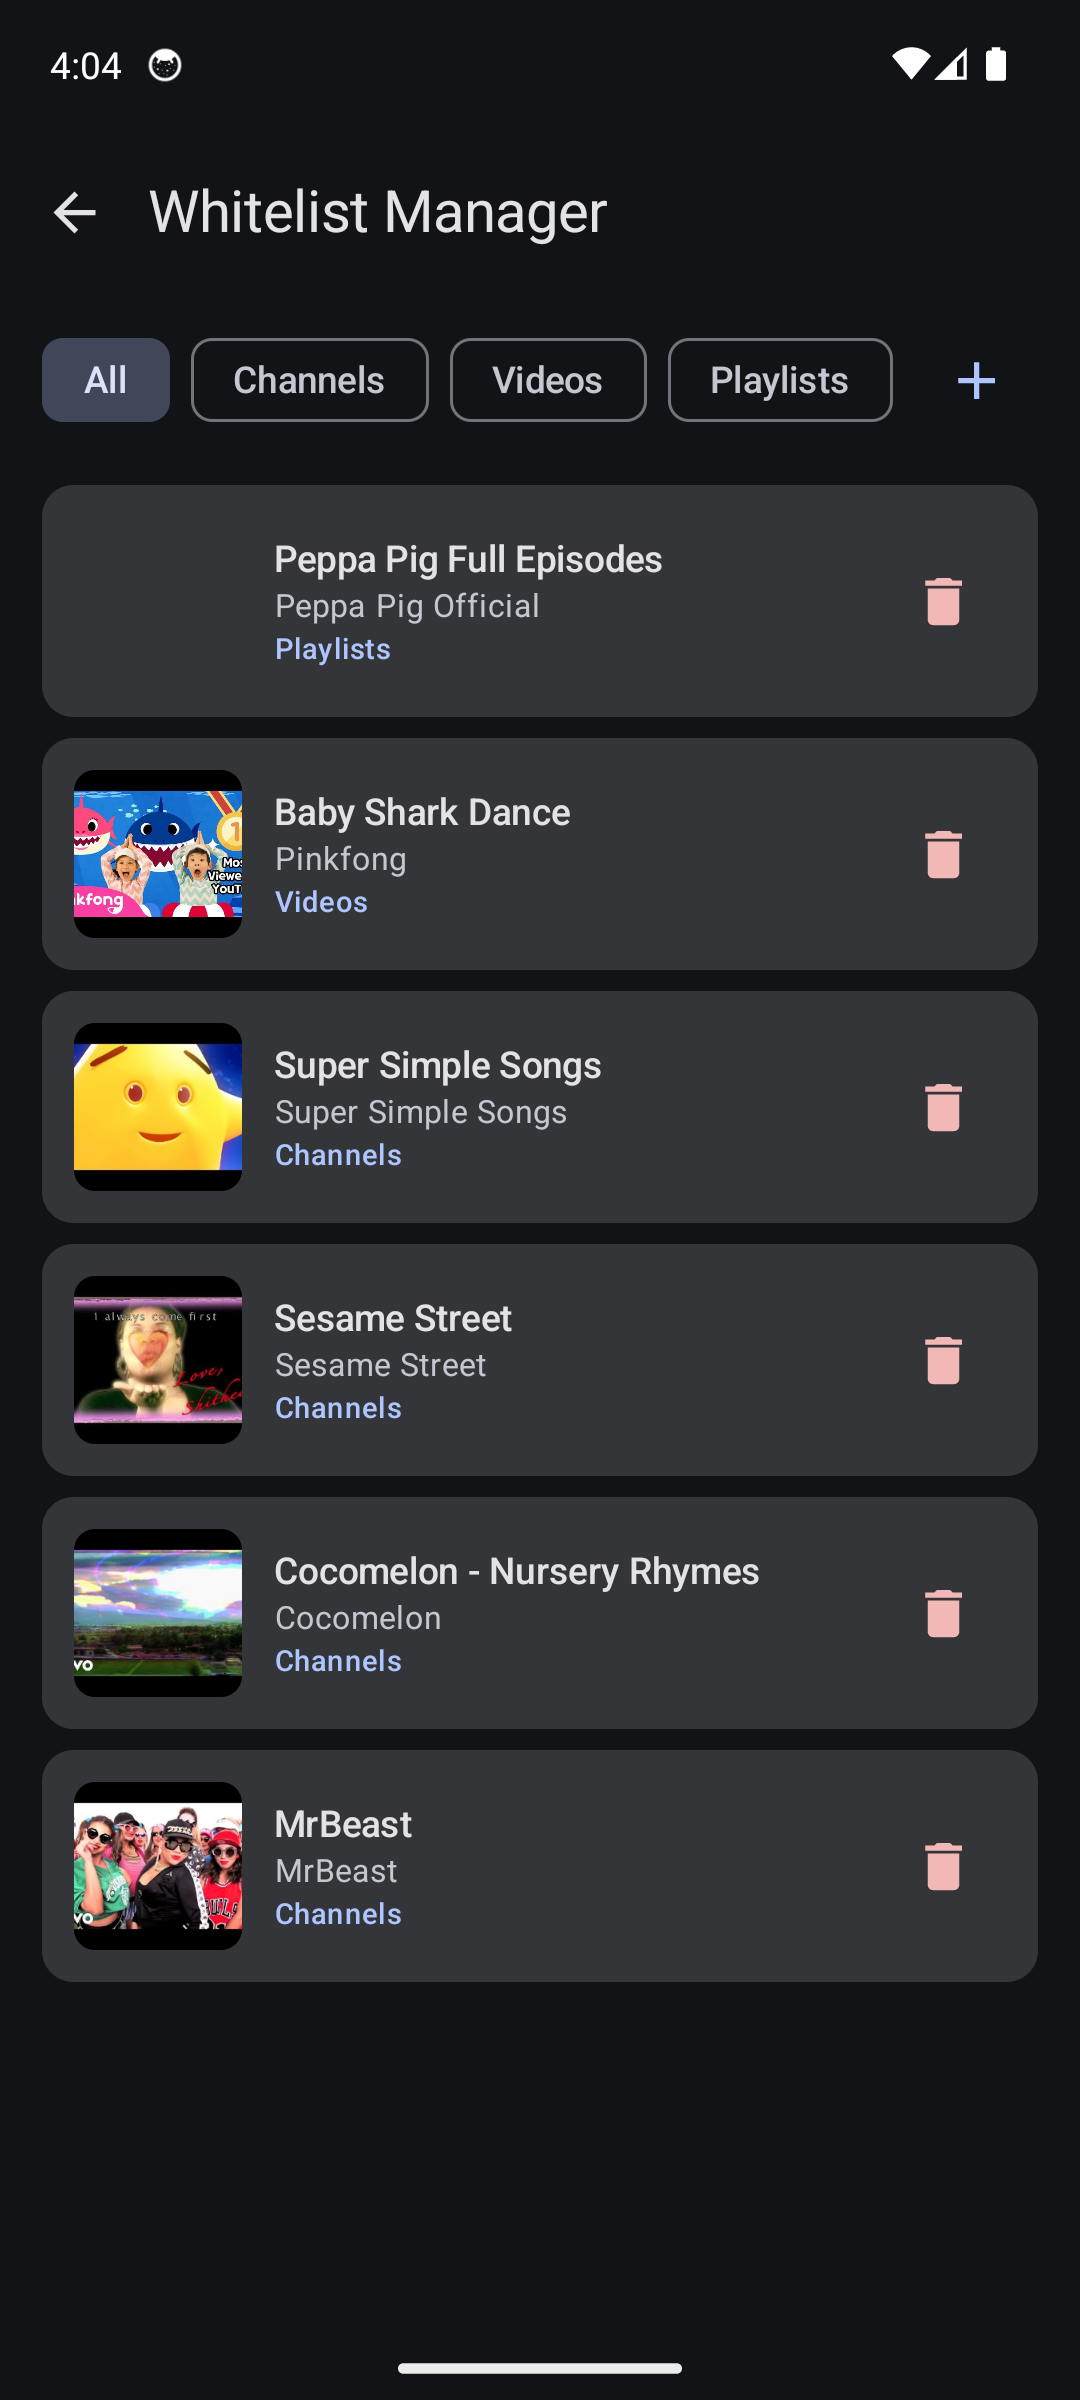
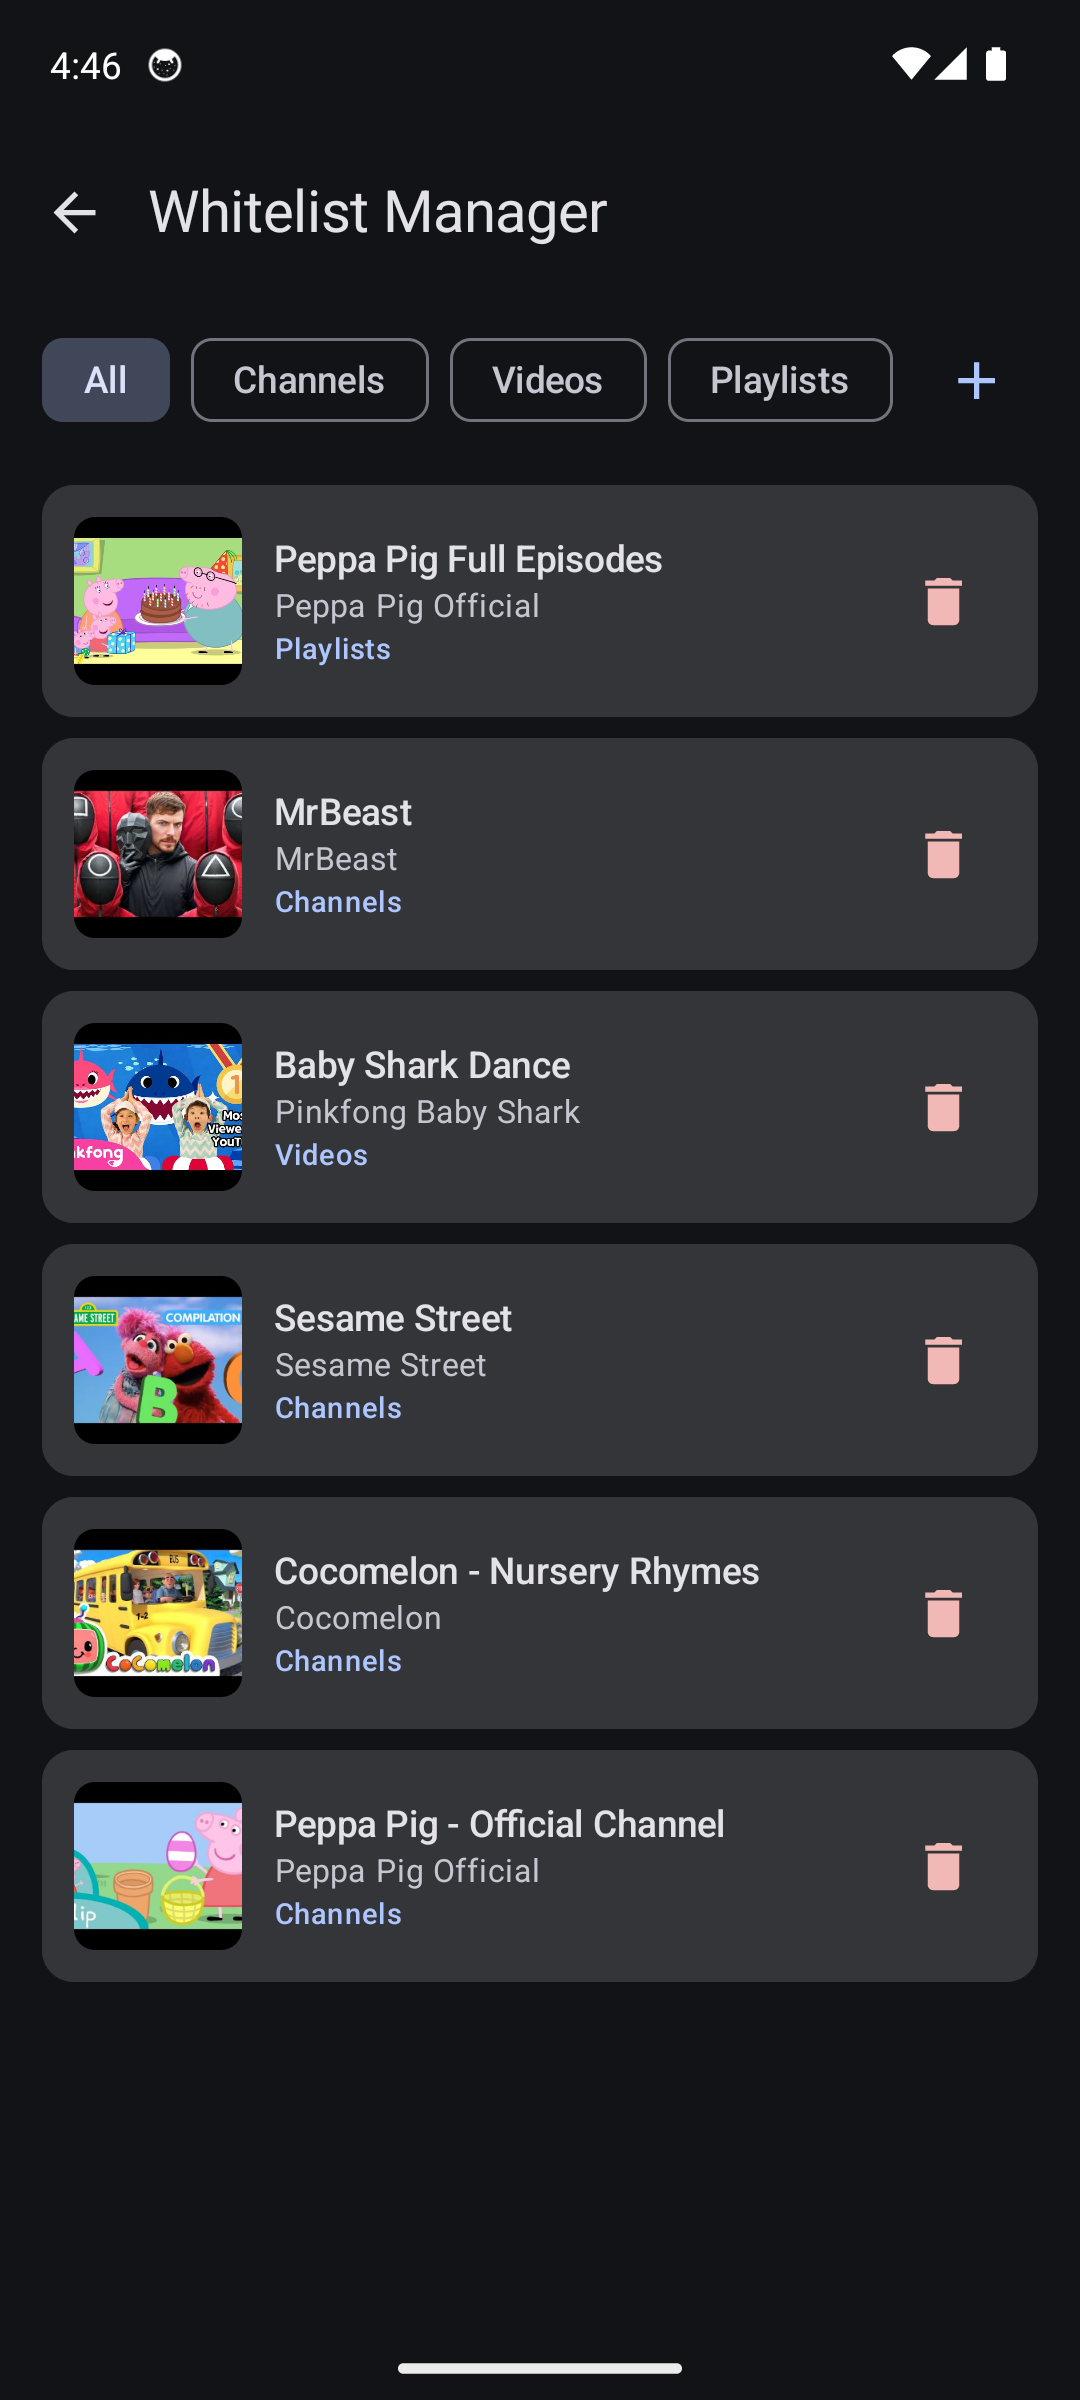
Session 17: Replace screenshots with real YouTube thumbnails
- 7 screenshots with authentic YouTube content (Peppa Pig, Cocomelon,
  Sesame Street, Baby Shark, MrBeast) instead of fake placeholder data
- Added Sleep Mode (06) and Export/Import (07) screenshots
- Release APK on emulator with real Google sign-in
- Archive Session 12 to CLAUDE_ARCHIVE_2.md
- Update session docs for Session 17/18

diff --git a/CLAUDE.md b/CLAUDE.md
@@ -67,65 +67,6 @@ Full PRD: `docs/PRD.md` (English translation from original Hungarian docx)
 
 ## Session Logs
 
-### Session 12 - 2026-02-10: Device Testing, WebView Security Fix, Cookie Persistence
-
-**Objectives**: Real device + emulator testing, fix embed-disabled video security issue, fix YouTube Premium cookie persistence in Browse YouTube.
-
-**Completed**:
-- **WebView Navigation Security Fix (VideoPlayerScreen + SleepModeScreen)**:
-  - Added `shouldOverrideUrlLoading` returning `true` to block ALL navigation in video player WebViews
-  - Prevents kids from escaping the app via "Watch on YouTube" links on embed-disabled videos
-  - Added `onEmbedError` callback to `VideoEndedBridge` JavaScript bridge — handles YouTube IFrame Player error codes 101/150 (embedding disabled by video owner)
-  - Auto-skips to next video when embed error detected (`viewModel.playNext()`)
-  - Same fixes applied to `SleepModeScreen`'s `SleepVideoEndedBridge`
-
-- **Browse YouTube Cookie Persistence Fix**:
-  - Added `CookieManager` setup to `WebViewBrowserScreen`'s `YouTubeWebView`
-  - `CookieManager.setAcceptCookie(true)` + `setAcceptThirdPartyCookies(this, true)` enables YouTube login session persistence
-  - `CookieManager.flush()` in `DisposableEffect.onDispose` persists cookies to disk before WebView destruction
-  - YouTube Premium now recognized in Browse YouTube — no ads, no sign-in prompts
-
-- **Attempted WebView OAuth (reverted)**:
-  - Created `OAuthWebViewActivity` to share cookie store between OAuth and Browse YouTube WebViews
-  - Goal: single sign-in experience (sign in once, Premium recognized everywhere)
-  - **Google blocked it** — Google's policy since 2016 prohibits OAuth in embedded WebViews (error: "access denied")
-  - Fully reverted to Chrome Custom Tabs + OAuthLoopbackServer implementation
-  - Deleted `OAuthWebViewActivity`, restored `androidx.browser` dependency
-
-- **Emulator Testing**:
-  - Installed release APK on Android 14 emulator, verified video playback with IFrame Player
-  - Navigation blocking confirmed — no "Watch on YouTube" escape links
-  - Video navigation (Next/Previous) working correctly
-  - Inserted test data directly via `adb shell run-as ... sqlite3` (emulator gesture navigation zone blocked FAB taps)
-
-- **Real Device Testing**:
-  - User confirmed fix works on real device ("szuper, most megy frankón")
-  - YouTube Premium recognized after CookieManager fix
-
-**Decisions Made**:
-- `shouldOverrideUrlLoading` returns `true` unconditionally in player WebViews — no legitimate navigation needed
-- Error codes 101/150 trigger auto-skip (not error message) — seamless UX for kids
-- Chrome Custom Tabs remains the only OAuth option — Google blocks embedded WebView OAuth
-- Users must sign in twice: once for app (Chrome Custom Tabs OAuth), once in Browse YouTube WebView — separate cookie stores, both sessions persist
-- CookieManager.flush() on dispose ensures YouTube login survives app restarts
-
-**Files Modified**:
-- `feature/kid/src/main/java/.../player/VideoPlayerScreen.kt` (navigation blocking + embed error handling)
-- `feature/sleep/src/main/java/.../ui/SleepModeScreen.kt` (same security fixes)
-- `feature/parent/src/main/java/.../browser/WebViewBrowserScreen.kt` (CookieManager setup + flush)
-- `core/auth/build.gradle.kts` (comment updated about Chrome Custom Tabs requirement)
-
-**Test Stats**: 355 tests, all green (no new tests — runtime security fixes verified on device/emulator)
-
-**Notes**:
-- Google blocks OAuth in embedded WebViews since 2016 — must use Chrome Custom Tabs or system browser
-- Chrome Custom Tabs cookie store is completely separate from app's WebView CookieManager
-- CookieManager is global across all WebViews within the app — Browse YouTube login persists across sessions
-- Emulator gesture navigation zone can swallow taps near screen bottom — use `adb shell run-as` + `sqlite3` for direct DB testing
-- Session 7 archived to CLAUDE_ARCHIVE_1.md (now contains sessions 1-7)
-
-**Next Session Focus**: Play Store screenshots, GitHub Release + tag v1.0.0, F-Droid submission, Privacy Policy page, API key restriction.
-
 ### Session 13 - 2026-02-10: Sleep Mode Refactoring + Device Testing Bug Fixes + Channel Video Search
 
 **Objectives**: Refactor Sleep Mode from standalone video player to background timer, device testing with bug fixes, implement channel video search in kid mode.
@@ -417,3 +358,56 @@ Full PRD: `docs/PRD.md` (English translation from original Hungarian docx)
 - API key restricted: Android only + YouTube Data API v3 — curl from macOS returns 403
 - Emulator screenshots required: normal GPU mode (not swiftshader), `exec-out screencap -p` instead of `screencap -p /sdcard/`, real thumbnail URLs in DB (fake yt3.ggpht.com URLs return 400)
 - F-Droid GitLab submission requires manual paste (Cloudflare blocks automation)
+
+### Session 17 - 2026-02-10: Improved Screenshots with Real YouTube Thumbnails
+
+**Objectives**: Replace fake-looking emulator screenshots with authentic ones using real YouTube thumbnail URLs, add Sleep Mode and Export/Import screenshots.
+
+**Completed**:
+- **Screenshot Overhaul (7 screenshots, 1080x2400)**:
+  - Installed release APK on emulator (not debug — API key restricted to release package)
+  - User signed into the app on emulator (Google OAuth via Chrome Custom Tabs)
+  - Created 2 profiles (Emma with 60min daily limit, Max with 90min)
+  - Inserted whitelist items with REAL YouTube video thumbnails:
+    - Peppa Pig Official Channel (DysgBIOiIwE) — actual Peppa Pig cartoon
+    - Cocomelon Nursery Rhymes (e_04ZrNroTo) — Wheels on the Bus with Cocomelon logo
+    - Sesame Street (aqUefNVhsNM) — ABC compilation with Elmo
+    - Baby Shark Dance (XqZsoesa55w) — Pinkfong "Most Viewed" thumbnail
+    - MrBeast (0e3GPea1Tyg) — Squid Game recreation
+    - Peppa Pig Full Episodes playlist (amNTw2cbxyY) — birthday party scene
+  - All thumbnail URLs verified with HTTP 200 before insertion
+  - Screenshots taken after toast messages dismissed (clean, no overlays)
+
+- **7 Screenshots saved to fastlane metadata**:
+  1. `01_profile_selector.png` (60KB) — "Who's watching?" with Emma + Max
+  2. `02_kid_home.png` (728KB) — Kid Home with real thumbnails, "Time remaining: 1h 0m"
+  3. `03_pin_entry.png` (71KB) — 6-digit PIN entry numpad
+  4. `04_parent_dashboard.png` (144KB) — Parent Dashboard with all actions
+  5. `05_whitelist_manager.png` (410KB) — Whitelist Manager with real thumbnails
+  6. `06_sleep_mode.png` (64KB) — Sleep Mode timer (30m slider + Start button)
+  7. `07_export_import.png` (83KB) — Export/Import screen
+
+- **Archive**: Session 12 archived to CLAUDE_ARCHIVE_2.md (now contains sessions 11-12)
+
+**Decisions Made**:
+- Release APK on emulator (not debug) — API key restricted to `io.github.degipe.youtubewhitelist` package
+- Root access on emulator (`adb root`) to modify release app's database directly
+- Real YouTube video thumbnails via `i.ytimg.com/vi/{videoId}/hqdefault.jpg` format
+- `uiautomator dump` for precise tap coordinates (not visual estimation)
+
+**Files Modified**:
+- `fastlane/metadata/android/en-US/images/phoneScreenshots/01-07_*.png` (7 screenshots)
+- `CLAUDE.md` (Session 12 archived, Session 17 added)
+- `CLAUDE_ARCHIVE_2.md` (Session 12 added)
+- `ARCHITECTURE.md` (Session 17 entry)
+- `NEXT_SESSION_PROMPT.md` (updated for Session 18)
+
+**Test Stats**: 378+ tests, all green (no code changes)
+
+**Notes**:
+- Thumbnail URL format `https://i.ytimg.com/vi/{videoId}/hqdefault.jpg` always works for valid video IDs
+- Channel avatar URLs (yt3.ggpht.com) are unique tokens — can't be fabricated, use video thumbnails instead
+- `adb root` works on emulator (Google APIs, not Google Play) — allows DB access for release builds
+- `uiautomator dump` returns exact XML bounds for all UI elements — reliable for adb tap automation
+- "App is pinned" / "App unpinned" toasts appear on kiosk mode transitions — wait 5 seconds before screenshotting
+- API error for many-image requests: max 2000px dimension per image — avoid reading too many screenshots in one conversation

diff --git a/NEXT_SESSION_PROMPT.md b/NEXT_SESSION_PROMPT.md
@@ -1,18 +1,13 @@
-# Session 17 Starting Prompt
+# Session 18 Starting Prompt
 
-Ez a 17. fejlesztési session. Olvasd be a CLAUDE.md fájlt a projekt kontextushoz és az előző sessionök összefoglalójához.
+Ez a 18. fejlesztési session. Olvasd be a CLAUDE.md fájlt a projekt kontextushoz és az előző sessionök összefoglalójához.
 
-## Előző Session (16) Összefoglaló
+## Előző Session (17) Összefoglaló
 
-Store submission + final polish kész:
-- GitHub Release v1.0.0 (tag + APK csatolva)
-- Privacy Policy GitHub Pages-en + repo-ban
-- AboutScreen v1.0.0 + Privacy Policy link
-- GCP API key korlátozva (Android + YouTube Data API v3 only)
-- OAuth consent screen published to Production
-- 5 Play Store screenshot emulátorról
-- F-Droid RFP tartalom előkészítve (manuális GitLab beküldés kell)
-- Play Store Submission Guide elkészítve
+Screenshots újracsinálva valódi YouTube thumbnailekkel:
+- 7 screenshot kész (profil választó, kid home, PIN, parent dashboard, whitelist manager, sleep mode, export/import)
+- Release APK az emulátoron (nem debug), valódi Google bejelentkezéssel
+- Valódi YouTube videók thumbnailjai (Peppa Pig, Cocomelon, Sesame Street, Baby Shark, MrBeast)
 
 ## Mi van kész
 
@@ -22,16 +17,16 @@ Store submission + final polish kész:
 - Privacy Policy: https://degipe.github.io/YouTubeWhitelist/privacy-policy/
 - GCP API key korlátozva, OAuth consent published
 - Teljes SDLC dokumentáció (BRD, FS, HLD, LLD, PRD, Developer Onboarding, User Manual)
-- Play Store screenshots (5 db) fastlane metadata-ban
+- 7 Play Store screenshot fastlane metadata-ban (valódi YouTube thumbnailekkel)
 - Play Store Submission Guide (`docs/PLAY_STORE_SUBMISSION.md`)
+- F-Droid RFP tartalom előkészítve (`/tmp/fdroid-rfp-issue.md` — újragenerálni kell)
 
 ## Mi maradt a publikáláshoz
 
 1. **Play Store beküldés**: Kövesd a `docs/PLAY_STORE_SUBMISSION.md` guide-ot, AAB feltöltés, content rating kitöltés
-2. **F-Droid RFP**: Manuálisan beküldeni GitLab-ra (tartalom: `docs/PLAY_STORE_SUBMISSION.md` alapján vagy újragenerálni)
+2. **F-Droid RFP**: GitLab account szükséges (GitHub bejelentkezés 422 errort adott — password reset kell)
 3. **Feature graphic**: 1024x500 banner a Play Store-hoz (kötelező)
 4. **App icon**: 512x512 PNG export a Play Store-hoz (kötelező)
-5. **Jobb screenshotok**: Valódi eszközről, valódi YouTube thumbnailokkal (opcionális)
 
 ## Opcionális fejlesztések
 
@@ -39,6 +34,7 @@ Store submission + final polish kész:
 - CI/CD (GitHub Actions: build + teszt)
 - Magyar nyelvű store listing screenshotok
 - Értékelés kérő dialog (in-app review API)
+- Jobb screenshotok valódi eszközről (opcionális)
 
 ### Megjegyzések
 

diff --git a/CLAUDE_ARCHIVE_2.md b/CLAUDE_ARCHIVE_2.md
@@ -43,3 +43,32 @@
 - Release builds: `app/build/outputs/apk/release/app-release.apk` (2.4 MB), `app/build/outputs/bundle/release/app-release.aab` (5.2 MB)
 
 **Next Session Focus**: Real device testing (sideload APK, test full user flow), bug fixes if needed, Play Store screenshots, GitHub Release + tag, F-Droid submission, Privacy Policy page.
+
+### Session 12 - 2026-02-10: Device Testing, WebView Security Fix, Cookie Persistence
+
+**Objectives**: Real device + emulator testing, fix embed-disabled video security issue, fix YouTube Premium cookie persistence in Browse YouTube.
+
+**Completed**:
+- **WebView Navigation Security Fix (VideoPlayerScreen + SleepModeScreen)**:
+  - Added `shouldOverrideUrlLoading` returning `true` to block ALL navigation in video player WebViews
+  - Prevents kids from escaping the app via "Watch on YouTube" links on embed-disabled videos
+  - Added `onEmbedError` callback to `VideoEndedBridge` JavaScript bridge — handles YouTube IFrame Player error codes 101/150
+  - Auto-skips to next video when embed error detected
+  - Same fixes applied to `SleepModeScreen`'s `SleepVideoEndedBridge`
+
+- **Browse YouTube Cookie Persistence Fix**:
+  - Added `CookieManager` setup to `WebViewBrowserScreen`'s `YouTubeWebView`
+  - `CookieManager.setAcceptCookie(true)` + `setAcceptThirdPartyCookies(this, true)`
+  - `CookieManager.flush()` in `DisposableEffect.onDispose` persists cookies to disk
+  - YouTube Premium now recognized in Browse YouTube
+
+- **Attempted WebView OAuth (reverted)**: Google blocks OAuth in embedded WebViews since 2016
+- **Emulator + Real Device Testing**: Release APK verified on both
+
+**Decisions Made**:
+- `shouldOverrideUrlLoading` returns `true` unconditionally in player WebViews
+- Error codes 101/150 trigger auto-skip — seamless UX for kids
+- Chrome Custom Tabs remains the only OAuth option
+- Users sign in twice (Chrome Custom Tabs + Browse YouTube WebView — separate cookie stores)
+
+**Test Stats**: 355 tests, all green

diff --git a/ARCHITECTURE.md b/ARCHITECTURE.md
@@ -22,6 +22,7 @@ This file tracks where session logs are stored across CLAUDE.md and archive file
 | 14      | 2026-02-10 | CLAUDE.md           | Reverse SDLC documentation (BRD, FS, HLD, LLD — 2138 lines, 18 Mermaid diagrams) |
 | 15      | 2026-02-10 | CLAUDE.md           | SDLC documentation completion (Developer Onboarding, User Manual, PRD English translation) |
 | 16      | 2026-02-10 | CLAUDE.md           | Store submission + final polish (GitHub Release v1.0.0, Privacy Policy, screenshots, API key restriction, F-Droid, Play Store guide) |
+| 17      | 2026-02-10 | CLAUDE.md           | Improved screenshots with real YouTube thumbnails (7 screenshots), Sleep Mode + Export/Import added |
 
 ## Archive Files
 
